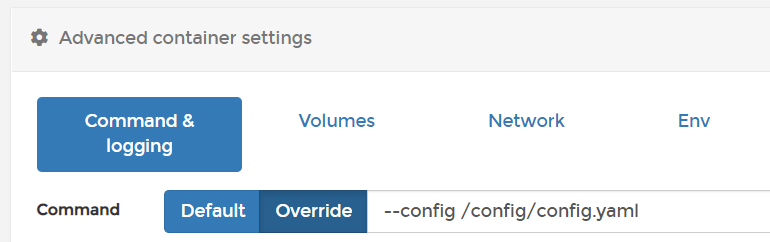
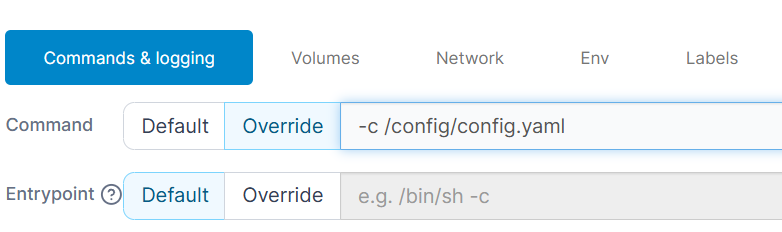
Site updated: 2025-07-09 17:34:20

diff --git a/posts/cb46f731/index.html b/posts/cb46f731/index.html
@@ -25,7 +25,7 @@
 <meta property="og:locale" content="zh_CN">
 <meta property="og:image" content="https://sunjx97.github.io/images/使用docker搭建webdav应用/portainer-ce启动参数.png">
 <meta property="article:published_time" content="2022-02-19T04:16:46.000Z">
-<meta property="article:modified_time" content="2022-02-19T06:13:52.995Z">
+<meta property="article:modified_time" content="2025-07-07T17:21:06.675Z">
 <meta property="article:author" content="sunjx97">
 <meta property="article:tag" content="webdav">
 <meta property="article:tag" content="docker">
@@ -254,7 +254,7 @@
       <span class="post-meta mr-2">
         <i class="iconfont icon-chart"></i>
         
-          undefined 字
+          4.9k 字
         
       </span>
     
@@ -265,7 +265,7 @@
         
         
         
-          NaN 分钟
+          41 分钟
         
       </span>
     
@@ -308,17 +308,22 @@
             
               <div class="markdown-body">
                 
-                <h2 id="前言"><a href="#前言" class="headerlink" title="前言"></a>前言</h2><p>一直想搭建好nas的webdav服务，但网上大多数服务都不支持多用户，许多人推荐的<code>hacdias/webdav</code>项目也找不到详细的安装教程，也就一直搁置了。如今终于搭建成功，便把个人的搭建流程发出来，希望能帮到有需要的人。<del>因为我也不大懂也就是刚跑起来，所以有问题的地方请大佬们轻喷orz</del></p>
+                <h2 id="前言"><a href="#前言" class="headerlink" title="前言"></a>前言</h2><h2 id="一直想搭建好nas的webdav服务，但网上大多数服务都不支持多用户，许多人推荐的hacdias-webdav项目也找不到详细的安装教程，也就一直搁置了。如今终于搭建成功，便把个人的搭建流程发出来，希望能帮到有需要的人。因为我也不大懂也就是刚跑起来，所以有问题的地方请大佬们轻喷orz"><a href="#一直想搭建好nas的webdav服务，但网上大多数服务都不支持多用户，许多人推荐的hacdias-webdav项目也找不到详细的安装教程，也就一直搁置了。如今终于搭建成功，便把个人的搭建流程发出来，希望能帮到有需要的人。因为我也不大懂也就是刚跑起来，所以有问题的地方请大佬们轻喷orz" class="headerlink" title="一直想搭建好nas的webdav服务，但网上大多数服务都不支持多用户，许多人推荐的hacdias/webdav项目也找不到详细的安装教程，也就一直搁置了。如今终于搭建成功，便把个人的搭建流程发出来，希望能帮到有需要的人。因为我也不大懂也就是刚跑起来，所以有问题的地方请大佬们轻喷orz"></a>一直想搭建好nas的webdav服务，但网上大多数服务都不支持多用户，许多人推荐的<code>hacdias/webdav</code>项目也找不到详细的安装教程，也就一直搁置了。如今终于搭建成功，便把个人的搭建流程发出来，希望能帮到有需要的人。<del>因为我也不大懂也就是刚跑起来，所以有问题的地方请大佬们轻喷orz</del></h2><p>20250707 鉴于<code>hacdias/webdav</code>项目更新，完善修正了部分内容。</p>
 <h2 id="搭建教程"><a href="#搭建教程" class="headerlink" title="搭建教程"></a>搭建教程</h2><p>咱使用的是<code>hacdias</code>大佬的基于Go语言的webdav，项目地址在<a target="_blank" rel="noopener" href="https://github.com/hacdias/webdav">这里</a>。这里使用官方的docker镜像。</p>
 <h3 id="创建配置文件"><a href="#创建配置文件" class="headerlink" title="创建配置文件"></a>创建配置文件</h3><p>在准备好的目录（本例为<code>/docker/webdav</code>）创建配置文件<code>config.yaml</code>，填入以下内容。</p>
-<figure class="highlight yaml"><table><tr><td class="gutter"><pre><span class="line">1</span><br><span class="line">2</span><br><span class="line">3</span><br><span class="line">4</span><br><span class="line">5</span><br><span class="line">6</span><br><span class="line">7</span><br><span class="line">8</span><br><span class="line">9</span><br><span class="line">10</span><br><span class="line">11</span><br><span class="line">12</span><br><span class="line">13</span><br><span class="line">14</span><br><span class="line">15</span><br><span class="line">16</span><br><span class="line">17</span><br><span class="line">18</span><br><span class="line">19</span><br><span class="line">20</span><br><span class="line">21</span><br><span class="line">22</span><br><span class="line">23</span><br><span class="line">24</span><br><span class="line">25</span><br><span class="line">26</span><br><span class="line">27</span><br><span class="line">28</span><br></pre></td><td class="code"><pre><span class="line"><span class="comment"># 监听任意网卡，多网卡可指定对应ip</span></span><br><span class="line"><span class="attr">address:</span> <span class="number">0.0</span><span class="number">.0</span><span class="number">.0</span></span><br><span class="line"><span class="attr">port:</span> <span class="number">8081</span></span><br><span class="line"><span class="attr">auth:</span> <span class="literal">true</span></span><br><span class="line"><span class="attr">prefix:</span> <span class="string">/</span></span><br><span class="line"><span class="attr">modify:</span> <span class="literal">true</span></span><br><span class="line"><span class="attr">rules:</span> []</span><br><span class="line"></span><br><span class="line"><span class="comment"># 跨域设置</span></span><br><span class="line"><span class="attr">cors:</span></span><br><span class="line">  <span class="attr">enabled:</span> <span class="literal">true</span></span><br><span class="line">  <span class="attr">credentials:</span> <span class="literal">true</span></span><br><span class="line">  <span class="attr">allowed_headers:</span></span><br><span class="line">    <span class="bullet">-</span> <span class="string">Depth</span></span><br><span class="line">  <span class="attr">allowed_hosts:</span></span><br><span class="line">    <span class="bullet">-</span> <span class="string">http://localhost:8081</span></span><br><span class="line">  <span class="attr">allowed_methods:</span></span><br><span class="line">    <span class="bullet">-</span> <span class="string">GET</span></span><br><span class="line">  <span class="attr">exposed_headers:</span></span><br><span class="line">    <span class="bullet">-</span> <span class="string">Content-Length</span></span><br><span class="line">    <span class="bullet">-</span> <span class="string">Content-Range</span></span><br><span class="line"></span><br><span class="line"><span class="comment"># 用户信息，如果 auth 为 true 生效</span></span><br><span class="line"><span class="attr">users:</span></span><br><span class="line">  <span class="bullet">-</span> <span class="attr">username:</span> <span class="string">admin</span></span><br><span class="line">    <span class="attr">password:</span> <span class="string">admin</span></span><br><span class="line">    <span class="comment"># 配置自己的 webdav 访问范围，此例为 /data 内所有文件</span></span><br><span class="line">    <span class="attr">scope:</span> <span class="string">/data</span></span><br></pre></td></tr></table></figure>
+<figure class="highlight yaml"><table><tr><td class="gutter"><pre><span class="line">1</span><br><span class="line">2</span><br><span class="line">3</span><br><span class="line">4</span><br><span class="line">5</span><br><span class="line">6</span><br><span class="line">7</span><br><span class="line">8</span><br><span class="line">9</span><br><span class="line">10</span><br><span class="line">11</span><br><span class="line">12</span><br><span class="line">13</span><br><span class="line">14</span><br><span class="line">15</span><br><span class="line">16</span><br><span class="line">17</span><br><span class="line">18</span><br><span class="line">19</span><br><span class="line">20</span><br><span class="line">21</span><br><span class="line">22</span><br><span class="line">23</span><br><span class="line">24</span><br><span class="line">25</span><br><span class="line">26</span><br><span class="line">27</span><br><span class="line">28</span><br><span class="line">29</span><br><span class="line">30</span><br><span class="line">31</span><br><span class="line">32</span><br><span class="line">33</span><br><span class="line">34</span><br><span class="line">35</span><br><span class="line">36</span><br><span class="line">37</span><br><span class="line">38</span><br><span class="line">39</span><br><span class="line">40</span><br><span class="line">41</span><br><span class="line">42</span><br><span class="line">43</span><br><span class="line">44</span><br><span class="line">45</span><br><span class="line">46</span><br><span class="line">47</span><br><span class="line">48</span><br><span class="line">49</span><br><span class="line">50</span><br><span class="line">51</span><br><span class="line">52</span><br><span class="line">53</span><br><span class="line">54</span><br><span class="line">55</span><br><span class="line">56</span><br><span class="line">57</span><br><span class="line">58</span><br><span class="line">59</span><br><span class="line">60</span><br><span class="line">61</span><br><span class="line">62</span><br><span class="line">63</span><br><span class="line">64</span><br><span class="line">65</span><br><span class="line">66</span><br><span class="line">67</span><br><span class="line">68</span><br><span class="line">69</span><br><span class="line">70</span><br><span class="line">71</span><br><span class="line">72</span><br><span class="line">73</span><br><span class="line">74</span><br><span class="line">75</span><br><span class="line">76</span><br><span class="line">77</span><br><span class="line">78</span><br><span class="line">79</span><br><span class="line">80</span><br><span class="line">81</span><br><span class="line">82</span><br><span class="line">83</span><br><span class="line">84</span><br><span class="line">85</span><br><span class="line">86</span><br><span class="line">87</span><br><span class="line">88</span><br><span class="line">89</span><br><span class="line">90</span><br><span class="line">91</span><br><span class="line">92</span><br><span class="line">93</span><br><span class="line">94</span><br><span class="line">95</span><br><span class="line">96</span><br><span class="line">97</span><br><span class="line">98</span><br><span class="line">99</span><br><span class="line">100</span><br><span class="line">101</span><br><span class="line">102</span><br><span class="line">103</span><br><span class="line">104</span><br><span class="line">105</span><br><span class="line">106</span><br><span class="line">107</span><br><span class="line">108</span><br><span class="line">109</span><br><span class="line">110</span><br><span class="line">111</span><br></pre></td><td class="code"><pre><code class="hljs yaml"><span class="hljs-comment"># 监听任意网卡，多网卡可指定对应ip</span><br><span class="hljs-attr">address:</span> <span class="hljs-number">0.0</span><span class="hljs-number">.0</span><span class="hljs-number">.0</span><br><span class="hljs-attr">port:</span> <span class="hljs-number">8081</span><br><br><span class="hljs-comment"># TLS-related settings if you want to enable TLS directly.</span><br><span class="hljs-attr">tls:</span> <span class="hljs-literal">false</span><br><span class="hljs-attr">cert:</span> <span class="hljs-string">cert.pem</span><br><span class="hljs-attr">key:</span> <span class="hljs-string">key.pem</span><br><br><span class="hljs-comment"># Prefix to apply to the WebDAV path-ing. Default is &#x27;/&#x27;.</span><br><span class="hljs-attr">prefix:</span> <span class="hljs-string">/</span><br><br><span class="hljs-comment"># Enable or disable debug logging. Default is &#x27;false&#x27;.</span><br><span class="hljs-attr">debug:</span> <span class="hljs-literal">false</span><br><br><span class="hljs-comment"># Disable sniffing the files to detect their content type. Default is &#x27;false&#x27;.</span><br><span class="hljs-attr">noSniff:</span> <span class="hljs-literal">false</span><br><br><span class="hljs-comment"># Whether the server runs behind a trusted proxy or not. When this is true,</span><br><span class="hljs-comment"># the header X-Forwarded-For will be used for logging the remote addresses</span><br><span class="hljs-comment"># of logging attempts (if available).</span><br><span class="hljs-attr">behindProxy:</span> <span class="hljs-literal">true</span><br><br><span class="hljs-comment"># The directory that will be able to be accessed by the users when connecting.</span><br><span class="hljs-comment"># This directory will be used by users unless they have their own &#x27;directory&#x27; defined.</span><br><span class="hljs-comment"># Default is &#x27;.&#x27; (current directory).</span><br><span class="hljs-attr">directory:</span> <span class="hljs-string">/data</span><br><br><span class="hljs-comment"># The default permissions for users. This is a case insensitive option. Possible</span><br><span class="hljs-comment"># permissions: C (Create), R (Read), U (Update), D (Delete). You can combine multiple</span><br><span class="hljs-comment"># permissions. For example, to allow to read and create, set &quot;RC&quot;. Default is &quot;R&quot;.</span><br><span class="hljs-attr">permissions:</span> <span class="hljs-string">R</span><br><br><span class="hljs-comment"># The default permissions rules for users. Default is none. Rules are applied</span><br><span class="hljs-comment"># from last to first, that is, the first rule that matches the request, starting</span><br><span class="hljs-comment"># from the end, will be applied to the request. Rule paths are always relative to</span><br><span class="hljs-comment"># the user&#x27;s directory.</span><br><span class="hljs-attr">rules:</span> []<br><br><span class="hljs-comment"># The behavior of redefining the rules for users. It can be:</span><br><span class="hljs-comment"># - overwrite: when a user has rules defined, these will overwrite any global</span><br><span class="hljs-comment">#   rules already defined. That is, the global rules are not applicable to the</span><br><span class="hljs-comment">#   user.</span><br><span class="hljs-comment"># - append: when a user has rules defined, these will be appended to the global</span><br><span class="hljs-comment">#   rules already defined. That is, for this user, their own specific rules will</span><br><span class="hljs-comment">#   be checked first, and then the global rules.</span><br><span class="hljs-comment"># Default is &#x27;overwrite&#x27;.</span><br><span class="hljs-attr">rulesBehavior:</span> <span class="hljs-string">overwrite</span><br><br><span class="hljs-comment"># Logging configuration</span><br><span class="hljs-attr">log:</span><br>  <span class="hljs-comment"># Logging format (&#x27;console&#x27;, &#x27;json&#x27;). Default is &#x27;console&#x27;.</span><br>  <span class="hljs-attr">format:</span> <span class="hljs-string">console</span><br>  <span class="hljs-comment"># Enable or disable colors. Default is &#x27;true&#x27;. Only applied if format is &#x27;console&#x27;.</span><br>  <span class="hljs-attr">colors:</span> <span class="hljs-literal">true</span><br>  <span class="hljs-comment"># Logging outputs. You can have more than one output. Default is only &#x27;stderr&#x27;.</span><br>  <span class="hljs-attr">outputs:</span><br>  <span class="hljs-bullet">-</span> <span class="hljs-string">stderr</span><br><br><span class="hljs-comment"># CORS configuration</span><br><span class="hljs-attr">cors:</span><br>  <span class="hljs-comment"># Whether or not CORS configuration should be applied. Default is &#x27;false&#x27;.</span><br>  <span class="hljs-attr">enabled:</span> <span class="hljs-literal">true</span><br>  <span class="hljs-attr">credentials:</span> <span class="hljs-literal">true</span><br>  <span class="hljs-attr">allowed_headers:</span><br>    <span class="hljs-bullet">-</span> <span class="hljs-string">Depth</span><br>  <span class="hljs-attr">allowed_hosts:</span><br>    <span class="hljs-bullet">-</span> <span class="hljs-string">http://localhost:8080</span><br>  <span class="hljs-attr">allowed_methods:</span><br>    <span class="hljs-bullet">-</span> <span class="hljs-string">GET</span><br>  <span class="hljs-attr">exposed_headers:</span><br>    <span class="hljs-bullet">-</span> <span class="hljs-string">Content-Length</span><br>    <span class="hljs-bullet">-</span> <span class="hljs-string">Content-Range</span><br><br><span class="hljs-comment"># The list of users. If the list is empty, then there will be no authentication.</span><br><span class="hljs-comment"># Otherwise, basic authentication will automatically be configured.</span><br><span class="hljs-comment">#</span><br><span class="hljs-comment"># If you&#x27;re delegating the authentication to a different service, you can proxy</span><br><span class="hljs-comment"># the username using basic authentication, and then disable webdav&#x27;s password</span><br><span class="hljs-comment"># check using the option:</span><br><span class="hljs-comment">#</span><br><span class="hljs-comment"># noPassword: true</span><br><span class="hljs-attr">users:</span><br>  <span class="hljs-comment"># Example &#x27;admin&#x27; user with plaintext password.</span><br>  <span class="hljs-bullet">-</span> <span class="hljs-attr">username:</span> <span class="hljs-string">admin</span><br>    <span class="hljs-attr">password:</span> <span class="hljs-string">admin</span><br>  <span class="hljs-comment"># Example &#x27;john&#x27; user with bcrypt encrypted password, with custom directory.</span><br>  <span class="hljs-comment"># You can generate a bcrypt-encrypted password by using the &#x27;webdav bcrypt&#x27;</span><br>  <span class="hljs-comment"># command lint utility.</span><br>  <span class="hljs-bullet">-</span> <span class="hljs-attr">username:</span> <span class="hljs-string">john</span><br>    <span class="hljs-attr">password:</span> <span class="hljs-string">&quot;&#123;bcrypt&#125;$2y$10$zEP6oofmXFeHaeMfBNLnP.DO8m.H.Mwhd24/TOX2MWLxAExXi4qgi&quot;</span><br>    <span class="hljs-attr">directory:</span> <span class="hljs-string">/another/path</span><br>  <span class="hljs-comment"># Example user whose details will be picked up from the environment.</span><br>  <span class="hljs-bullet">-</span> <span class="hljs-attr">username:</span> <span class="hljs-string">&quot;&#123;env&#125;ENV_USERNAME&quot;</span><br>    <span class="hljs-attr">password:</span> <span class="hljs-string">&quot;&#123;env&#125;ENV_PASSWORD&quot;</span><br>  <span class="hljs-bullet">-</span> <span class="hljs-attr">username:</span> <span class="hljs-string">basic</span><br>    <span class="hljs-attr">password:</span> <span class="hljs-string">basic</span><br>    <span class="hljs-comment"># Override default permissions.</span><br>    <span class="hljs-attr">permissions:</span> <span class="hljs-string">CRUD</span><br>    <span class="hljs-attr">rules:</span><br>      <span class="hljs-comment"># With this rule, the user CANNOT access &#123;user directory&#125;/some/files.</span><br>      <span class="hljs-bullet">-</span> <span class="hljs-attr">path:</span> <span class="hljs-string">/some/file</span><br>        <span class="hljs-attr">permissions:</span> <span class="hljs-string">none</span><br>      <span class="hljs-comment"># With this rule, the user CAN create, read, update and delete within</span><br>      <span class="hljs-comment"># &#123;user directory&#125;/public/access.</span><br>      <span class="hljs-bullet">-</span> <span class="hljs-attr">path:</span> <span class="hljs-string">/public/access/</span><br>        <span class="hljs-attr">permissions:</span> <span class="hljs-string">CRUD</span><br>      <span class="hljs-comment"># With this rule, the user CAN read and update all files ending with .js.</span><br>      <span class="hljs-comment"># It uses a regular expression.</span><br>      <span class="hljs-bullet">-</span> <span class="hljs-attr">regex:</span> <span class="hljs-string">&quot;^.+.js$&quot;</span><br>        <span class="hljs-attr">permissions:</span> <span class="hljs-string">RU</span><br></code></pre></td></tr></table></figure>
 
 <h3 id="创建容器"><a href="#创建容器" class="headerlink" title="创建容器"></a>创建容器</h3><p>与多数docker容器创建相同，值得注意的是要将<code>config.yaml</code>所在目录映射进容器，并在启动参数指定<code>config</code>为容器内<code>config.yaml</code>。</p>
 <p>参考：</p>
-<figure class="highlight shell"><table><tr><td class="gutter"><pre><span class="line">1</span><br></pre></td><td class="code"><pre><span class="line">docker run -d --name webdav-go -v /media:/data/media -v /docker/webdav:/config -p 8081:8081 --restart unless-stopped hacdias/webdav:latest --config /config/config.yaml</span><br></pre></td></tr></table></figure>
+<figure class="highlight shell"><table><tr><td class="gutter"><pre><span class="line">1</span><br></pre></td><td class="code"><pre><code class="hljs shell">docker run -d --name webdav-go -v /media:/data/media -v /docker/webdav:/config -p 8081:8081 --restart unless-stopped hacdias/webdav:latest -c /config/config.yaml<br></code></pre></td></tr></table></figure>
 
 <h4 id="目录与端口映射"><a href="#目录与端口映射" class="headerlink" title="目录与端口映射"></a>目录与端口映射</h4><p>将想要通过webdav访问的目录映射进容器内部<code>/data</code>目录，配置文件目录<code>/docker/webdav</code>映射到容器<code>/config</code>目录，端口<code>8081</code>映射到外部。</p>
-<h4 id="启动参数"><a href="#启动参数" class="headerlink" title="启动参数"></a>启动参数</h4><p>添加启动参数<code>--config /config/config.yaml</code>。portainer-ce安装要在Advanced container settings-Command &amp; logging设置，command设置为override并填入参数。<br><img src="/images/使用docker搭建webdav应用/portainer-ce启动参数.png" srcset="/img/loading.gif" lazyload width="70%" /></p>
+<h4 id="启动参数"><a href="#启动参数" class="headerlink" title="启动参数"></a>启动参数</h4><p>添加启动参数<code>-c /config/config.yaml</code>。portainer-ce安装要在Advanced container settings-Command &amp; logging设置，command设置为override并填入参数。<br><img src="/images/使用docker搭建webdav应用/portainer-ce启动参数.png" srcset="/img/loading.gif" lazyload width="70%" /></p>
+<h4 id="可访问目录"><a href="#可访问目录" class="headerlink" title="可访问目录"></a>可访问目录</h4><p>我们要将配置文件中<code>directory</code>设置为<code>/data</code>，这样才能直接访问到我们想要共享的目录。默认为<code>.</code>，此时会直接将项目<strong>根目录</strong>共享出去，这不是我们需要的。</p>
+<h4 id="多用户"><a href="#多用户" class="headerlink" title="多用户"></a>多用户</h4><p>模板中支持对多个用户进行精细的权限控制（详见注释）。我只有一个人用，故只保留必要部分。<br>对配置文件中<code>users</code>项进行修改：</p>
+<figure class="highlight yaml"><table><tr><td class="gutter"><pre><span class="line">1</span><br><span class="line">2</span><br><span class="line">3</span><br><span class="line">4</span><br><span class="line">5</span><br></pre></td><td class="code"><pre><code class="hljs yaml"><span class="hljs-attr">users:</span><br>  <span class="hljs-bullet">-</span> <span class="hljs-attr">username:</span> <span class="hljs-string">your_name</span>       <span class="hljs-comment"># 访问 webdav 的用户名</span><br>    <span class="hljs-attr">password:</span> <span class="hljs-string">your_password</span>   <span class="hljs-comment"># 访问 webdav 的密码</span><br>    <span class="hljs-attr">directory:</span> <span class="hljs-string">/data</span>        <span class="hljs-comment"># 将 data 目录所有内容共享出来</span><br>    <span class="hljs-attr">permissions:</span> <span class="hljs-string">CRUD</span>       <span class="hljs-comment"># 对目录下文件拥有读写删改所有权限</span><br></code></pre></td></tr></table></figure>
+
+<h4 id="反向代理"><a href="#反向代理" class="headerlink" title="反向代理"></a>反向代理</h4><p>如果想要使用ssl反代来更安全地使用，可以在配置文件将<code>behindProxy</code>设置为<code>true</code>，在日志里就可以清晰看到访问的<strong>真实地址</strong>，否则只会是反代服务器所在的地址。</p>
 <h2 id="挂载-webdav"><a href="#挂载-webdav" class="headerlink" title="挂载 webdav"></a>挂载 webdav</h2><p>推荐使用<code>RaiDrive</code>挂载webdav盘，<code>2020.6.36</code>前的版本没有广告。有需求可自行反代。</p>
 <h2 id="参考资料"><a href="#参考资料" class="headerlink" title="参考资料"></a>参考资料</h2><p><a target="_blank" rel="noopener" href="https://github.com/hacdias/webdav">hacdias&#x2F;webdav: Simple Go WebDAV server.</a><br><a target="_blank" rel="noopener" href="https://www.ztianzeng.com/post/ji-lu-yi-ci-nas-xi-tong-beng-kui/">记录一次NAS系统崩溃</a></p>
 
